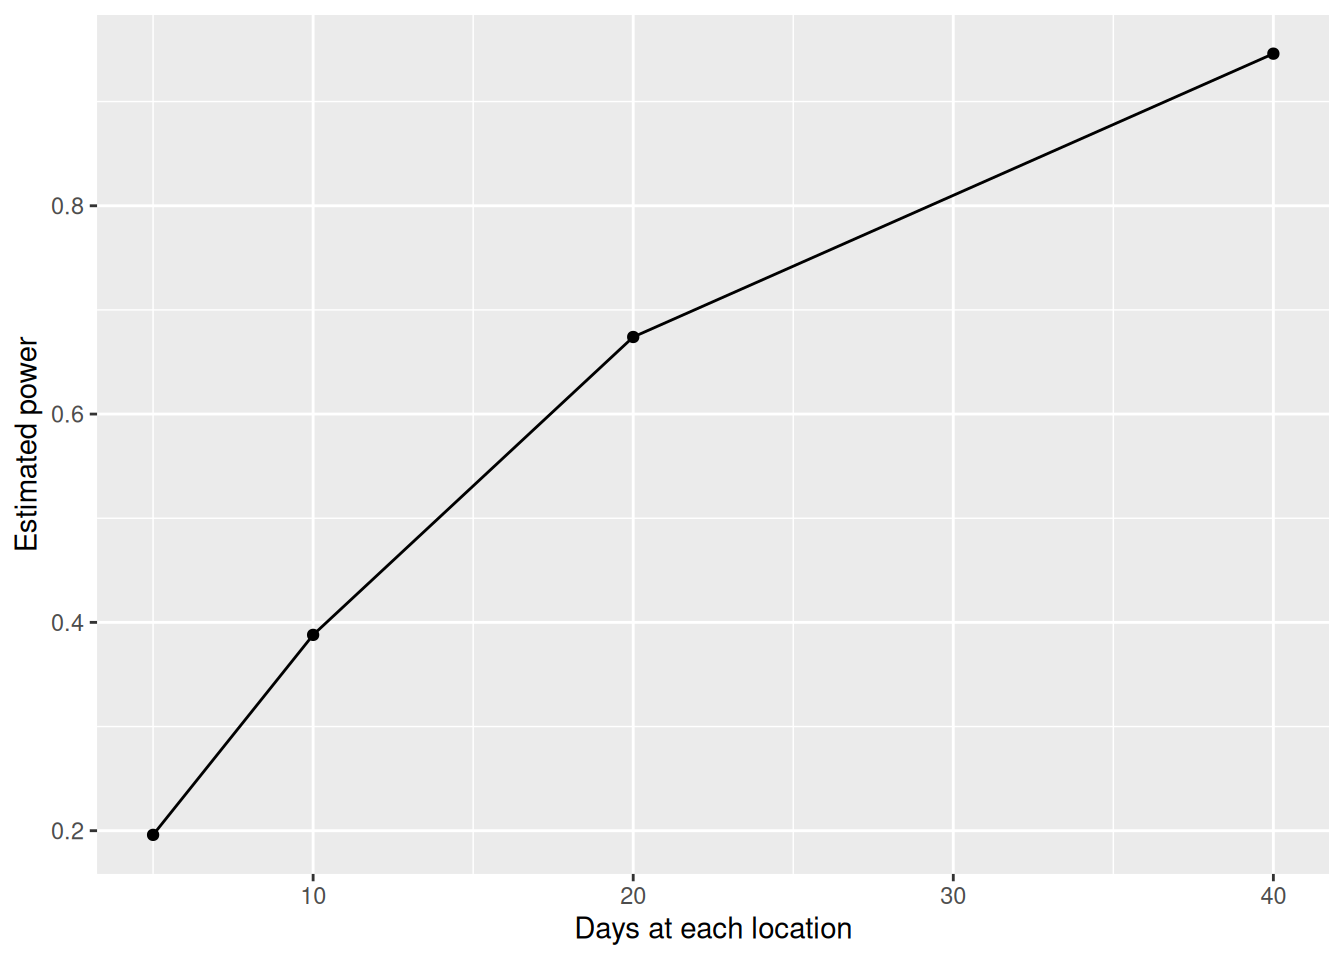
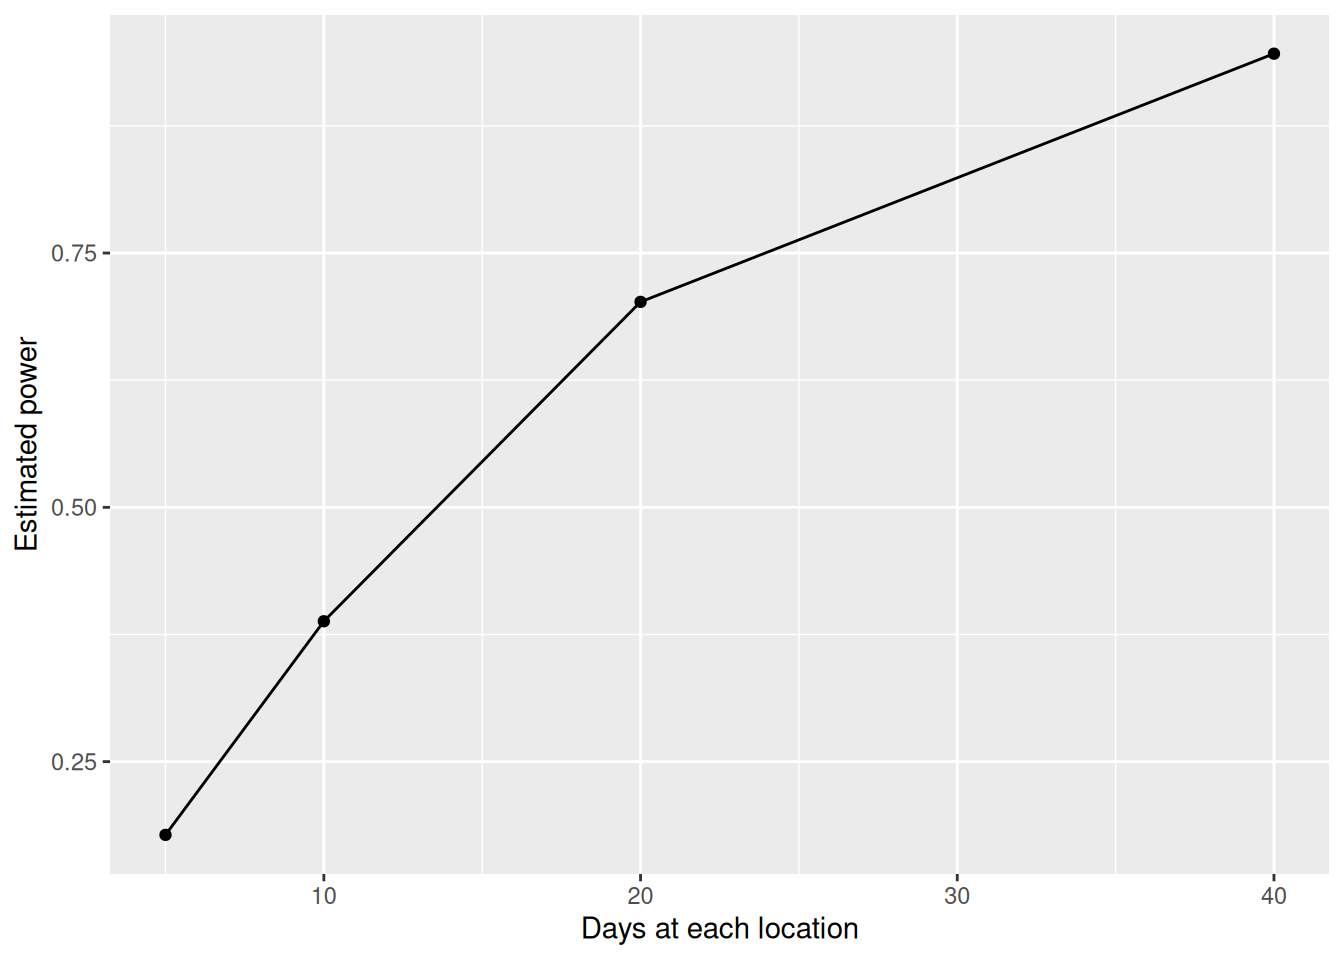
Add stuff

diff --git a/.claude/skills/math2025-canvas/references/course-ids.md b/.claude/skills/math2025-canvas/references/course-ids.md
@@ -132,3 +132,18 @@ Run from `~/.claude/skills/canvas-course-editor` with `pixi run python -c "..."`
 - Assignment `244586` AE-14: The Power to Discover an Expanding Universe, 10 pts, due 2026-10-21T16:50:00Z, unpublished.
 - Data files: `1799589` cosmicflows4.csv, `1799590` hubble-1929.csv, `1799591` hubble-1931.csv.
 - Next lecture module goes at position 17.
+
+
+## Lecture 15 (added 2026-10-21)
+
+- Module `80070` (position 17), Slides + AE-15 + HW-07, unpublished.
+- Assignment `244798` AE-15: Effect Size, 10 pts, due 2026-10-26T16:50:00Z, unpublished.
+- Assignment `244799` HW-07: Is the Drive Worth It?, 30 pts, due 2026-10-28T16:50:00Z, unpublished.
+- Data files: `1801200` framingham.csv, `1801201` coffee-data-power.csv.
+- Next lecture module goes at position 18.
+
+
+## Lecture 16 (added 2026-10-21)
+
+- Module `80071` (position 18), Prepare only (`ExternalUrl`, item `407486`), unpublished.
+- Next lecture module goes at position 19.
